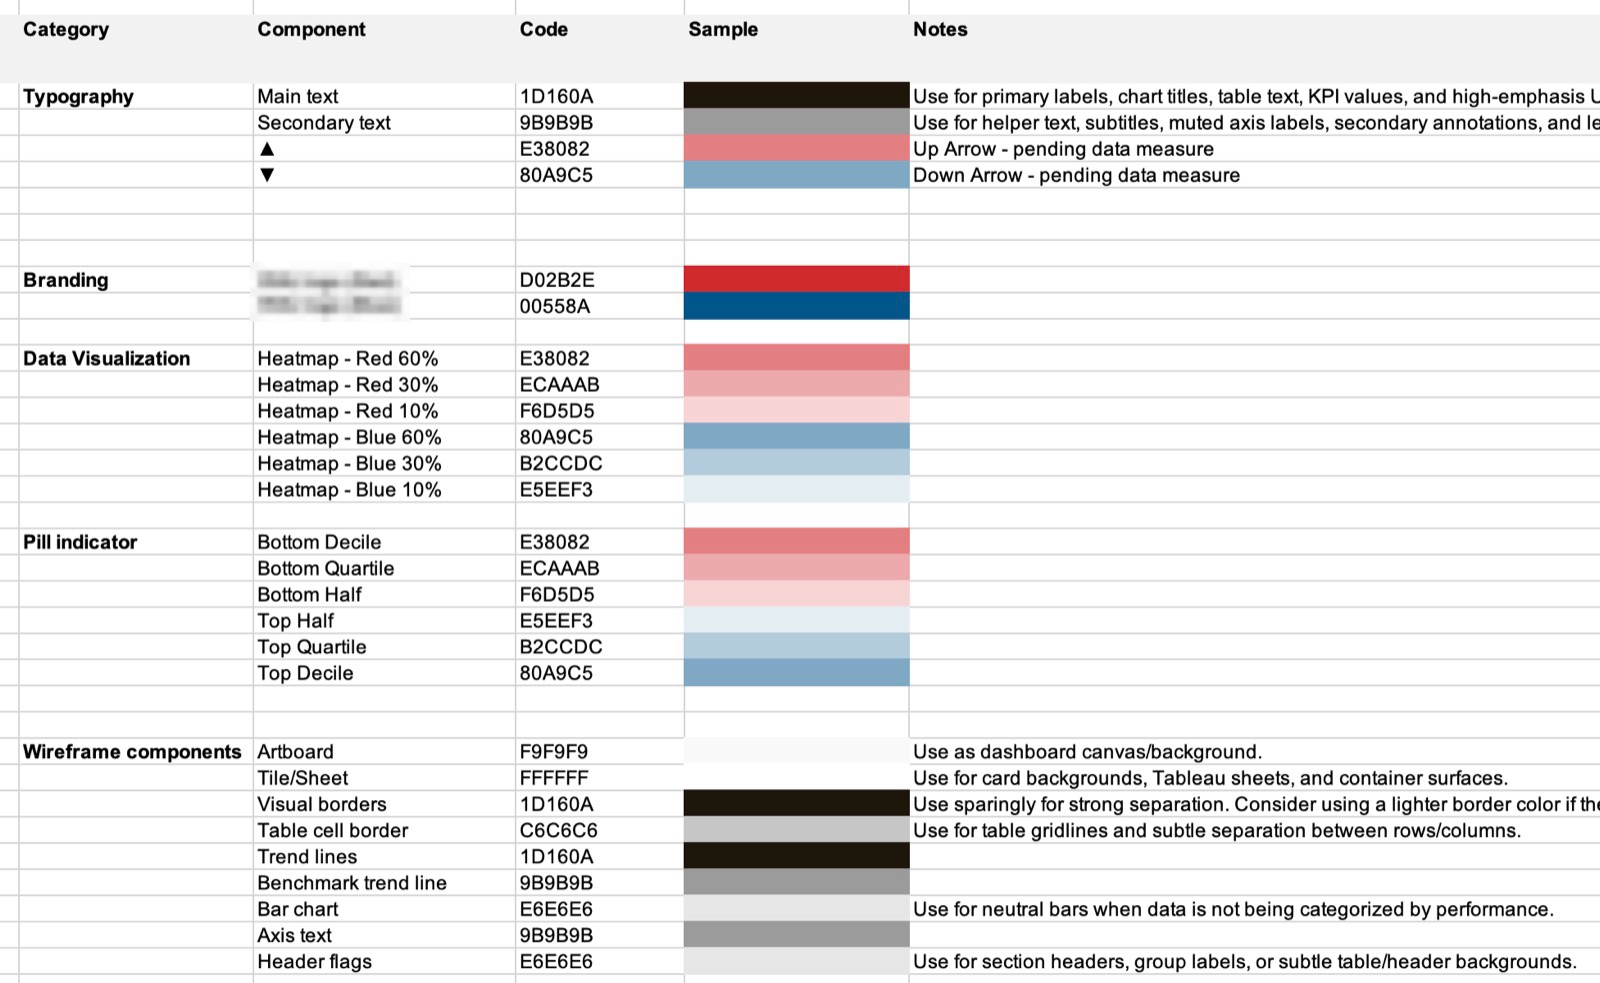
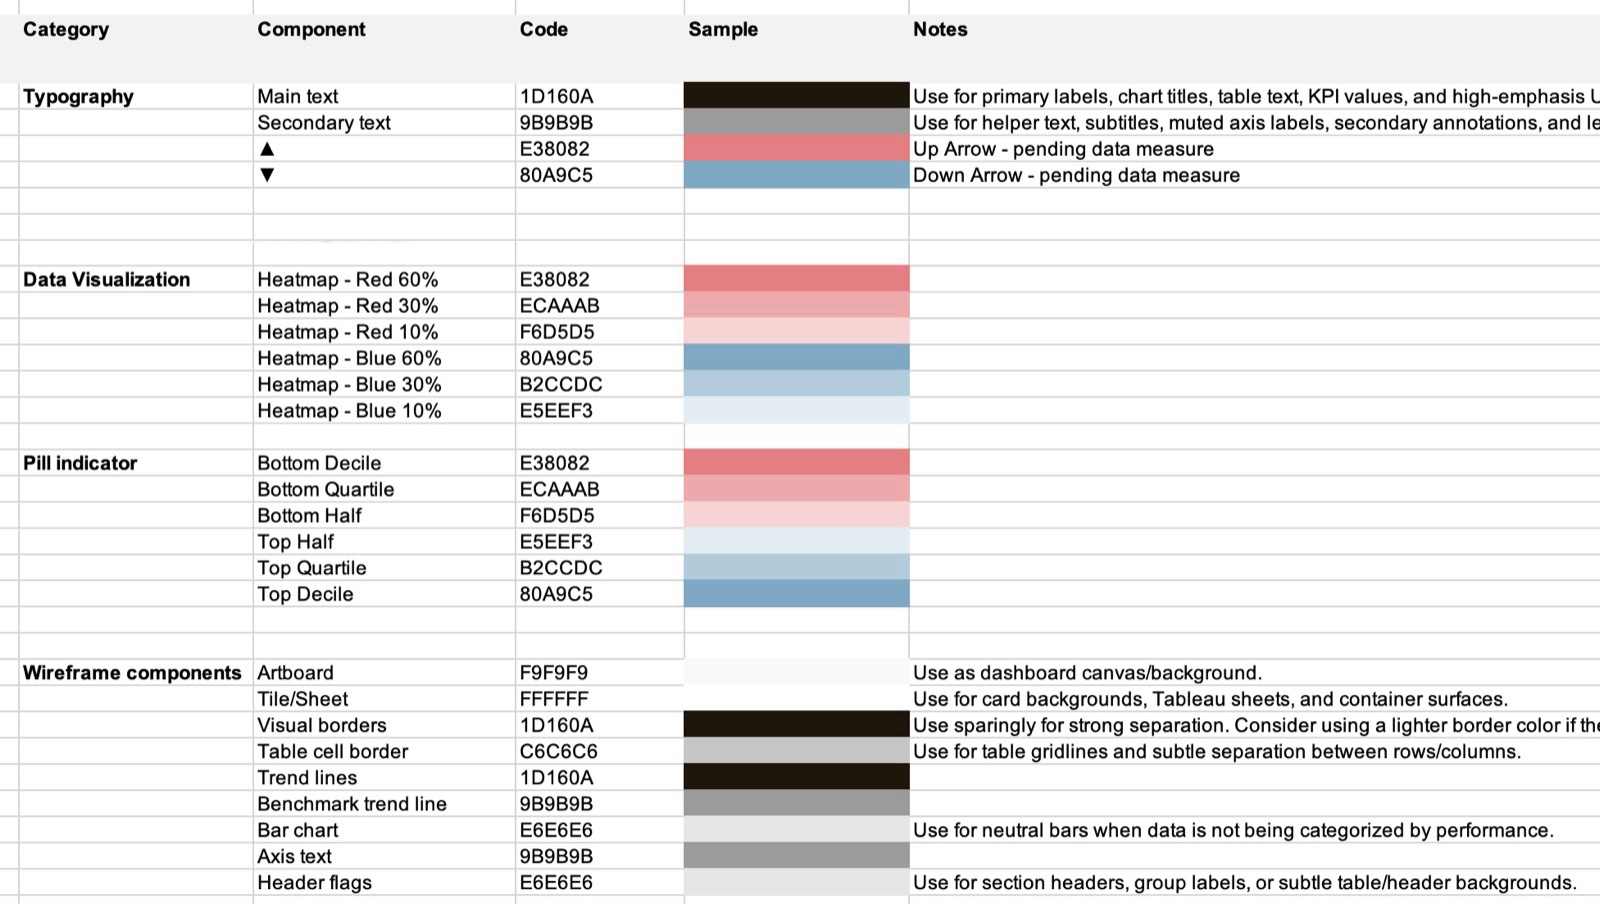
Take the client brand colours out of the colour standard
The Branding row of color-standard.jpg still carried the client's two
brand hex values and their swatches. The component labels beside them had
been blurred back in August, but the hexes and the colour chips were
untouched, and a brand colour is an identity mark exactly the way a
wordmark is.

Blanking the four cells was tried first and read as damage: the fills
clipped the column rules and left a broken looking empty band. The row is
deleted instead, and the rows below shifted up to close the gap, so there
is nothing to notice. Cut y=241..319, which is the two Branding sub rows
plus one of the two spacer bands, chosen off a row darkness profile so
the remaining gap between Typography and Data Visualization is 23 rows,
the same as every other gap in the table. Image is 1600x904 now, so the
width and height attributes move with it, and the alt text drops the word
branding because that row is no longer in the picture.

Nothing else in the table changes: the ramps, pill deciles and wireframe
greys are the standard itself and are not client identity.

diff --git a/work/healthcare-system.html b/work/healthcare-system.html
@@ -576,7 +576,7 @@
         </div>
         <div class="car__item">
           <figure>
-            <img src="../assets/img/work/healthcare/color-standard.jpg?v=20260818b" alt="The color standard as a specification table. Rows for typography, branding, data visualization ramps, pill indicators and wireframe components, each with a hex value, a color sample and a usage note." loading="lazy" decoding="async" width="1600" height="983">
+            <img src="../assets/img/work/healthcare/color-standard.jpg?v=20260901c" alt="The color standard as a specification table. Rows for typography, data visualization ramps, pill indicators and wireframe components, each with a hex value, a color sample and a usage note." loading="lazy" decoding="async" width="1600" height="904">
             <figcaption><b>The standard, written down.</b> Diverging ramps at 60, 30 and 10 percent, pill indicators by decile, and wireframe greys, each documented with its hex value and the rule for when it applies. A ramp nobody can look up is a ramp that gets reinvented.</figcaption>
           </figure>
         </div>
